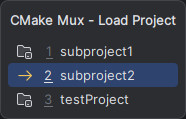
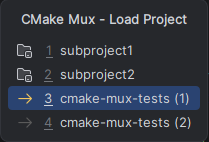
Update README screenshots
- Updated main panel and popup screenshots
- New screenshots of the preset regular expression dialog and the
  status bar
- Remove unused mux_popup.png

diff --git a/README.md b/README.md
@@ -56,12 +56,16 @@ loaded, e.g. when it was loaded with CLion’s own “Load CMake Project” or t
 arrows are updated whenever CLion loads a CMake project or the presets change, also at IDE startup, where CLion itself
 restores the last loaded project and presets.
 
+![main_mux_win.png](docs/main_mux_win.png)
+
 The “Enable CMake presets for <project>” panel lets you specify any number of regular expressions; presets whose name
-and/or display name match are enabled automatically. Double-click a regular expression (or use the edit button) to edit it. For each
-regular expression you choose whether it is matched against the preset name, the display name, or both. Matching is
-case-insensitive and a match anywhere in the name is enough, use `^...$` to match the whole name (e.g. `.*` enables
-all presets, `^debug$` only the preset named `debug`). When the pin’s `CMakeLists.txt` is the loaded one, the dialog
-shows how many and which of its presets a regular expression matches while editing it.
+and/or display name match are enabled automatically. Double-click a regular expression (or use the edit button) to
+edit it. For each regular expression you choose whether it is matched against the preset name, the display name, or
+both. Matching is case-insensitive and a match anywhere in the name is enough, use `^...$` to match the whole name
+(e.g. `.*` enables all presets, `^debug$` only the preset named `debug`). When the pin’s `CMakeLists.txt` is the
+loaded one, the dialog shows how many and which of its presets a regular expression matches while editing it.
+
+![preset_regexp_dialog.png](docs/preset_regexp_dialog.png)
 
 > [!NOTE]
 > Regular expressions created with earlier versions of the plugin keep their old behavior and are matched against the
@@ -75,7 +79,7 @@ While a pin is active (yellow arrow), its name is shown in the status bar at the
 `CMakeLists.txt` path, clicking it opens the CMake Mux tool window. The status bar entry can be hidden via the status
 bar context menu.
 
-![main_mux_win.png](docs/main_mux_win.png)
+![status_bar.png](docs/status_bar.png)
 
 The action “Select CMake Mux Project...” can be bound to a custom keyboard shortcut.
 
